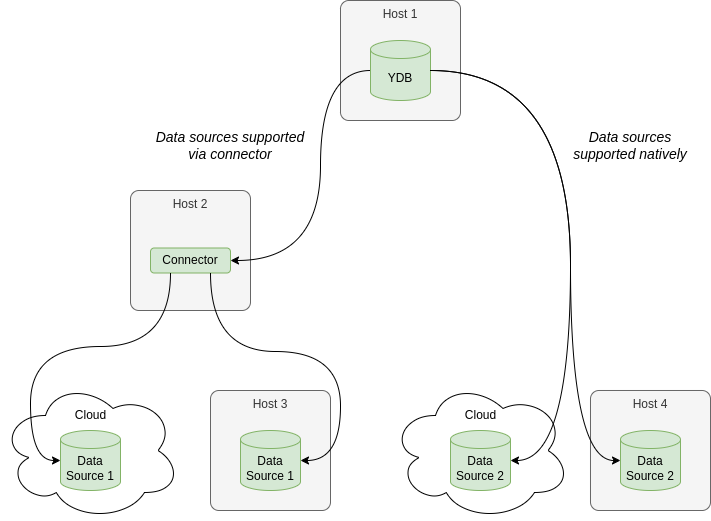
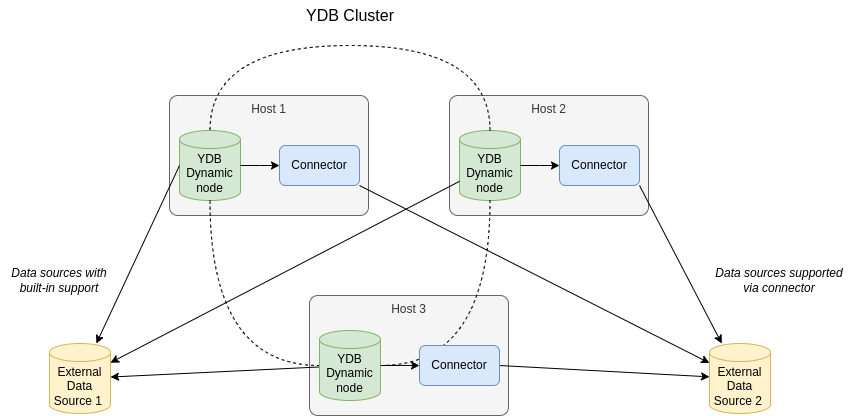
Review fix pt. 13

diff --git a/ydb/docs/ru/core/deploy/manual/deploy-ydb-federated-query.md b/ydb/docs/ru/core/deploy/manual/deploy-ydb-federated-query.md
@@ -1,4 +1,4 @@
-# Развертывание YDB с функцией Federated Query
+# Развёртывание YDB с функцией Federated Query
 
 {% note warning %}
 
@@ -12,42 +12,37 @@
 
 {% note info %}
 
-Для организации доступа к некоторым из источников данных требуется развертывание специального микросервиса - [коннектора](../../concepts/federated_query/architecture.md#connectors). Ознакомьтесь c [перечнем поддерживаемых источников](../../concepts/federated_query/architecture.md#suppored-datasources), чтобы понять, требуется ли вам установка коннектора.
+Для организации доступа к некоторым из источников данных требуется развёртывание специального микросервиса - [коннектора](../../concepts/federated_query/architecture.md#connectors). Ознакомьтесь c [перечнем поддерживаемых источников](../../concepts/federated_query/architecture.md#supported-datasources), чтобы понять, требуется ли вам установка коннектора.
 
 {% endnote %}
  
-{{ ydb-short-name }} и внешние источники данных в варианте production-инсталляции должны разворачиваться на разных физических или виртуальных серверах, в том числе в облаках. Коннектор, в случае, если его использование необходимо для доступа к требуемому источнику данных, может быть развернут согласно следующим схемам:
-
-* На одном и том же физическом или виртуальном сервере c {{ ydb-short-name }}, причём {{ ydb-short-name }} разворачивается с помощью [бинарных файлов](./deploy-ydb-on-premises.md#install-binaries), а коннектор - с помощью Docker-образа.
-* На отдельном от {{ ydb-short-name }} физическом или виртуальном сервере. 
+Кластер {{ ydb-short-name }} и внешние источники данных в варианте production-инсталляции должны развёртываться на разных физических или виртуальных серверах, в том числе в облаках. Если для доступа к определённому источнику требуется развёртывание коннектора, это необходимо сделать на тех же серверах, на которых развёрнуты динамические узлы {{ ydb-short-name }}. Иными словами, на каждый процесс `ydbd`, работающий в режиме динамического узла, должен приходиться один локальный процесс коннектора. 
 
 При этом должны выполняться следующие требования:
-* источник данных должен быть доступен по сети для запросов со стороны YDB или со стороны коннектора (при его наличии);
-* коннектор должен быть доступен по сети для запросов со стороны {{ ydb-short-name }}.
+* внешний источник данных должен быть доступен по сети для запросов со стороны {{ ydb-short-name }} или со стороны коннектора (при его наличии);
+* коннектор должен быть доступен по сети для запросов со стороны {{ ydb-short-name }} (что достигается тривиальным образом благодаря работе этих процессов на одном и том же хосте).
 
-![Инсталляция {{ ydb-short-name }} FQ](_images/ydb_fq_onprem.png "Инсталляция {{ ydb-short-name }} FQ" =640x)
+![Инсталляция {{ ydb-short-name }} FQ](_images/ydb_fq_onprem.png "Инсталляция {{ ydb-short-name }} FQ" =1024x)
 
 {% note info %}
 
 В настоящее время мы не поддерживаем развёртывание коннектора в {{k8s}}, но планируем добавить её в ближайшем будущем.
-
-Если вам необходимо развернуть несколько инстансов коннектора в целях отказоустойчивости, используйте доступные вам средства балансировки, например, DNS-балансировку. Конфигурационный файл YDB на данный момент поддерживает указание только одного адреса коннектора.
 
 {% endnote %}
 
 ## Пошаговое руководство
 
 1. Если для доступа к нужному вам источнику требуется развернуть коннектор, сделайте это [согласно инструкции](./connector.md).
-1. Выполните шаги инструкции по развертыванию {{ ydb-short-name }} до [подготовки конфигурационных файлов](./deploy-ydb-on-premises.md#config) включительно.
+1. Выполните шаги инструкции по развёртыванию динамического узла {{ ydb-short-name }} до [подготовки конфигурационных файлов](./deploy-ydb-on-premises.md#config) включительно.
 1. В конфигурационном файле {{ ydb-short-name }} в секции `query_service_config` добавьте подсекцию `generic` по приведённому ниже образцу. В полях `connector.endpoint.host` и `connector.endpoint.port` укажите сетевой адрес коннектора, а в поле `connector.use_ssl` укажите, использует ли коннектор шифрованные соединения:
     ```yaml
     query_service_config:
         generic:
             connector:
                 endpoint:
-                    host: connector_host  # имя хоста, где развернут коннектор
-                    port: 50051           # номер порта, на котором развернут слушающий сокет коннектора
-                use_ssl: true             # флаг, включающий шифрование соединений
+                    host: localhost  # имя хоста, где развернут коннектор
+                    port: 50051      # номер порта, на котором развернут слушающий сокет коннектора
+                use_ssl: false       # флаг, включающий шифрование соединений
             default_settings:
                 - name: DateTimeFormat
                   value: string
@@ -60,4 +55,4 @@
         enable_external_data_sources: true
         enable_script_execution_operations: true
     ```
-1. Продолжайте развертывание {{ ydb-short-name }} по [инструкции](./deploy-ydb-on-premises.md). 
+1. Продолжайте развёртывание {{ ydb-short-name }} по [инструкции](./deploy-ydb-on-premises.md). 

diff --git a/ydb/docs/ru/core/concepts/federated_query/architecture.md b/ydb/docs/ru/core/concepts/federated_query/architecture.md
@@ -1,11 +1,19 @@
-# Aрхитектура федеративных запросов
+# Aрхитектура системы обработки федеративных запросов
 
-Для реализации федеративных запросов {{ ydb-full-name }} необходимо отправлять запросы в сторонние системы хранения данных; для этого приходится использовать их клиентские библиотеки. Появление таких зависимостей негативно сказывается на объёме кодовой базы, времени компиляции и размере бинарных файлов {{ ydb-short-name }}, а также на стабильности всего продукта в целом.
+## Внешние источники данных и внешние таблицы
+
+Ключевым элементом системы обработки федеративных запросов {{ ydb-full-name }} является понятие [внешнего источника данных](../datamodel/external_data_source.md) (external data source). В настоящее время в качестве таких источников для {{ ydb-short-name }} могут выступать реляционные СУБД или объектные хранилища. В момент выполнения федеративного запроса {{ ydb-short-name }} извлекает данные из внешних систем, размещает их в своей оперативной памяти, а затем выполняет агрегацию и совместный анализ данных из разных источников в соответствии с запросом клиента.
+
+Для того, чтобы работать с данными, размещёнными во внешних системах, {{ ydb-short-name }} должна располагать информацией о внутренней структуре этих данных (например, о количестве, названиях и типах столбцов в таблицах). Некоторые источники предоставляют подобную метаинформацию о данных вместе с самими данными, тогда как для работы с другими, несхематизированными источниками требуется задание этой метаинформации извне. Последней цели служат [внешние таблицы](../datamodel/external_table.md) (external tables).
+
+Зарегистрировав в {{ ydb-short-name }} внешние источники данных и (в случае необходимости) внешние таблицы, клиент может приступать к описанию федеративных запросов.
+
+## Коннекторы {#connectors}
+
+В ходе выполнения федеративных запросов {{ ydb-short-name }} необходимо обращаться по сети к сторонним системам хранения данных, для чего приходится использовать их клиентские библиотеки. Появление таких зависимостей негативно сказывается на объёме кодовой базы, времени компиляции и размере бинарных файлов {{ ydb-short-name }}, а также на стабильности всего продукта в целом. 
 
 Перечень поддерживаемых источников данных для федеративных запросов постоянно расширяется. 
 Наиболее популярные источники, такие как [S3](s3), поддерживаются {{ ydb-short-name }} нативно. Однако не всем пользователям требуется поддержка одновременно всех источников. Её можно включить опционально с помощью  _коннекторов_ - специальных микросервисов, реализующих унифицированный интерфейс доступа к внешним источникам данных.
-
-## Коннекторы {#connectors}
 
 В функции коннекторов входят:
 
@@ -23,6 +31,6 @@
 
 | Источник | Поддержка |
 | -------- | --------- |
-| [S3](https://aws.amazon.com/ru/s3/) | Нативная |
+| [S3](https://aws.amazon.com/ru/s3/) | Встроенная в `ydbd` |
 | [ClickHouse](https://clickhouse.com/) | Через коннектор [fq-connector-go](../../deploy/manual/connector.md#fq-connector-go) |
 | [PostgreSQL](https://www.postgresql.org/) | Через коннектор [fq-connector-go](../../deploy/manual/connector.md#fq-connector-go) |

diff --git a/ydb/docs/ru/core/deploy/manual/connector.md b/ydb/docs/ru/core/deploy/manual/connector.md
@@ -1,4 +1,4 @@
-# Развертывание коннекторов ко внешним источникам данных
+# Развёртывание коннекторов ко внешним источникам данных
 
 {% note warning %}
 
@@ -6,7 +6,7 @@
 
 {% endnote %}
 
-[Коннекторы](../../concepts/federated_query/architecture.md#connectors) - специальные микросервисы, предоставляющие {{ ydb-full-name }} универсальную абстракцию доступа ко внешним источникам данных. Коннекторы являются ключевым элементом системы обработки [федеративных запросов](../../concepts/federated_query/index.md) {{ ydb-full-name }}. В данном руководстве мы рассмотрим особенности развертывания коннекторов в режиме on-premise.
+[Коннекторы](../../concepts/federated_query/architecture.md#connectors) - специальные микросервисы, предоставляющие {{ ydb-full-name }} универсальную абстракцию доступа ко внешним источникам данных. Коннекторы являются ключевым элементом системы обработки [федеративных запросов](../../concepts/federated_query/index.md) {{ ydb-full-name }}. В данном руководстве мы рассмотрим особенности развёртывания коннекторов в режиме on-premise.
 
 ## fq-connector-go {#fq-connector-go}
 
@@ -15,7 +15,9 @@
 * [ClickHouse](https://clickhouse.com/)
 * [PostgreSQL](https://www.postgresql.org/)
 
-### Запуск {#fq-connector-go-launch}
+Коннектор может быть установлен с помощью бинарного дистрибутива или с помощью Docker-образа.
+
+### Запуск в Docker {#fq-connector-go-docker}
 
 Для запуска коннектора используйте официальный [Docker-образ](https://github.com/ydb-platform/fq-connector-go/pkgs/container/fq-connector-go). Он уже содержит [конфигурационный файл](https://github.com/ydb-platform/fq-connector-go/blob/main/app/server/config/config.prod.yaml) сервиса. Запустить сервис с настройками по умолчанию можно следующей командой: 
 
@@ -75,7 +77,14 @@ RUN update-ca-certificates
 docker build -t fq-connector-go_custom_ca .
 ```
 
-Новый образ `fq-connector-go_custom_ca` можно использовать для развертывания сервиса с помощью команд, приведённых выше.
+Новый образ `fq-connector-go_custom_ca` можно использовать для развёртывания сервиса с помощью команд, приведённых выше.
+
+### Запуск из бинарного дистрибутива
+
+Для установки коннектора на физический или виртуальный сервер без средств контейнерной виртуализации используйте бинарные дистрибутивы.
+
+1. На странице с релизами (...)
+
 
 ### Конфигурация {#fq-connector-go-config}
 

diff --git a/ydb/docs/ru/core/concepts/federated_query/index.md b/ydb/docs/ru/core/concepts/federated_query/index.md
@@ -6,7 +6,6 @@
 
 {% endnote %}
 
-
 Федеративные запросы - это способ получать информацию из различных источников данных без необходимости переноса данных этих источников внутрь {{ ydb-full-name }}. Федеративные запросы поддерживают взаимодействие с базами данных ClickHouse, PostgreSQL и с хранилищами данных класса S3. При помощи YQL запросов вы сможете обращаться к этим базам данных без необходимости дублирования данных между системами.
 
 Для работы с данными, хранящимися во внешних СУБД, достаточно создать [внешний источник данных](../datamodel/external_data_source.md). Для работы с несхематизированными данными, хранящимися в бакетах S3 нужно дополнительно создать объект [внешнюю таблицу](../datamodel/external_table.md). В обоих случаях необходимо предварительно создать объекты-[секреты](../datamodel/secrets.md), хранящие конфиденциальные данные, необходимые для аутентификации во внешних системах.

diff --git a/ydb/docs/ru/core/getting_started/self_hosted/_includes/ydb_docker.md b/ydb/docs/ru/core/getting_started/self_hosted/_includes/ydb_docker.md
@@ -244,6 +244,6 @@ docker run --rm -it --entrypoint cat {{ ydb_local_docker_image }} THIRD_PARTY_LI
 
 {% note info %}
 
-О дополнительных опциях запуска коннектора можно узнать в [руководстве по развертыванию](../../../deploy/manual/connector.md#fq-connector-go-launch). В качестве внешних источников данных можно использовать любое хранилище или базу данных из перечня [поддерживаемых](../../../concepts/federated_query/architecture.md#supported-datasources).
+О дополнительных опциях запуска коннектора можно узнать в [руководстве по развертыванию](../../../deploy/manual/connector.md#fq-connector-go-docker). В качестве внешних источников данных можно использовать любое хранилище или базу данных из перечня [поддерживаемых](../../../concepts/federated_query/architecture.md#supported-datasources).
 
 {% endnote %}
